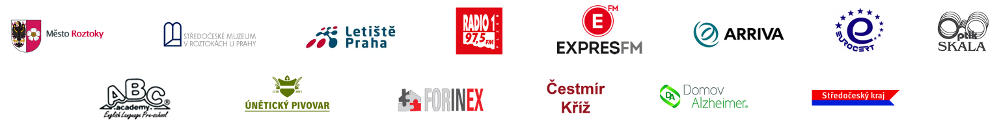
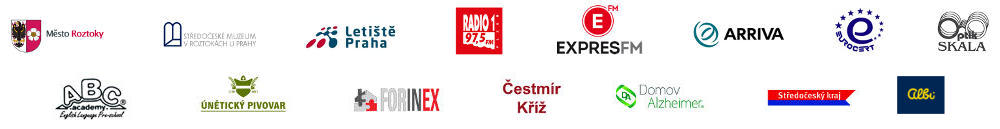
albi

Changed region(s): [[0.031, 0.5891, 0.961, 0.9302]]

diff --git a/src/index.html b/src/index.html
@@ -420,7 +420,7 @@
 					<p>
 						Pod záštitou města Roztoky, Středočeského kraje a Letiště Praha a.s. pořádá RR z.s. a Středočeské Muzeum.
 					</p>
-					<img class="sponsors" src="img/sponsors.jpg" alt="sponzoři" />
+					<img class="sponsors" src="img/sponsors.jpg?v=2" alt="sponzoři" />
 					<div>
 						<a href="https://www.kudyznudy.cz/?utm_source=kzn&utm_medium=partneri_kzn&utm_campaign=banner" title="Kudyznudy.cz - tipy na výlet"> <img src="https://www.kudyznudy.cz/KzN/media/Onas/bannery/logo_kudyznudy.gif" width="150"  height="64" border="0" alt="Kudyznudy.cz - tipy na výlet"> </a>
 					</div>
